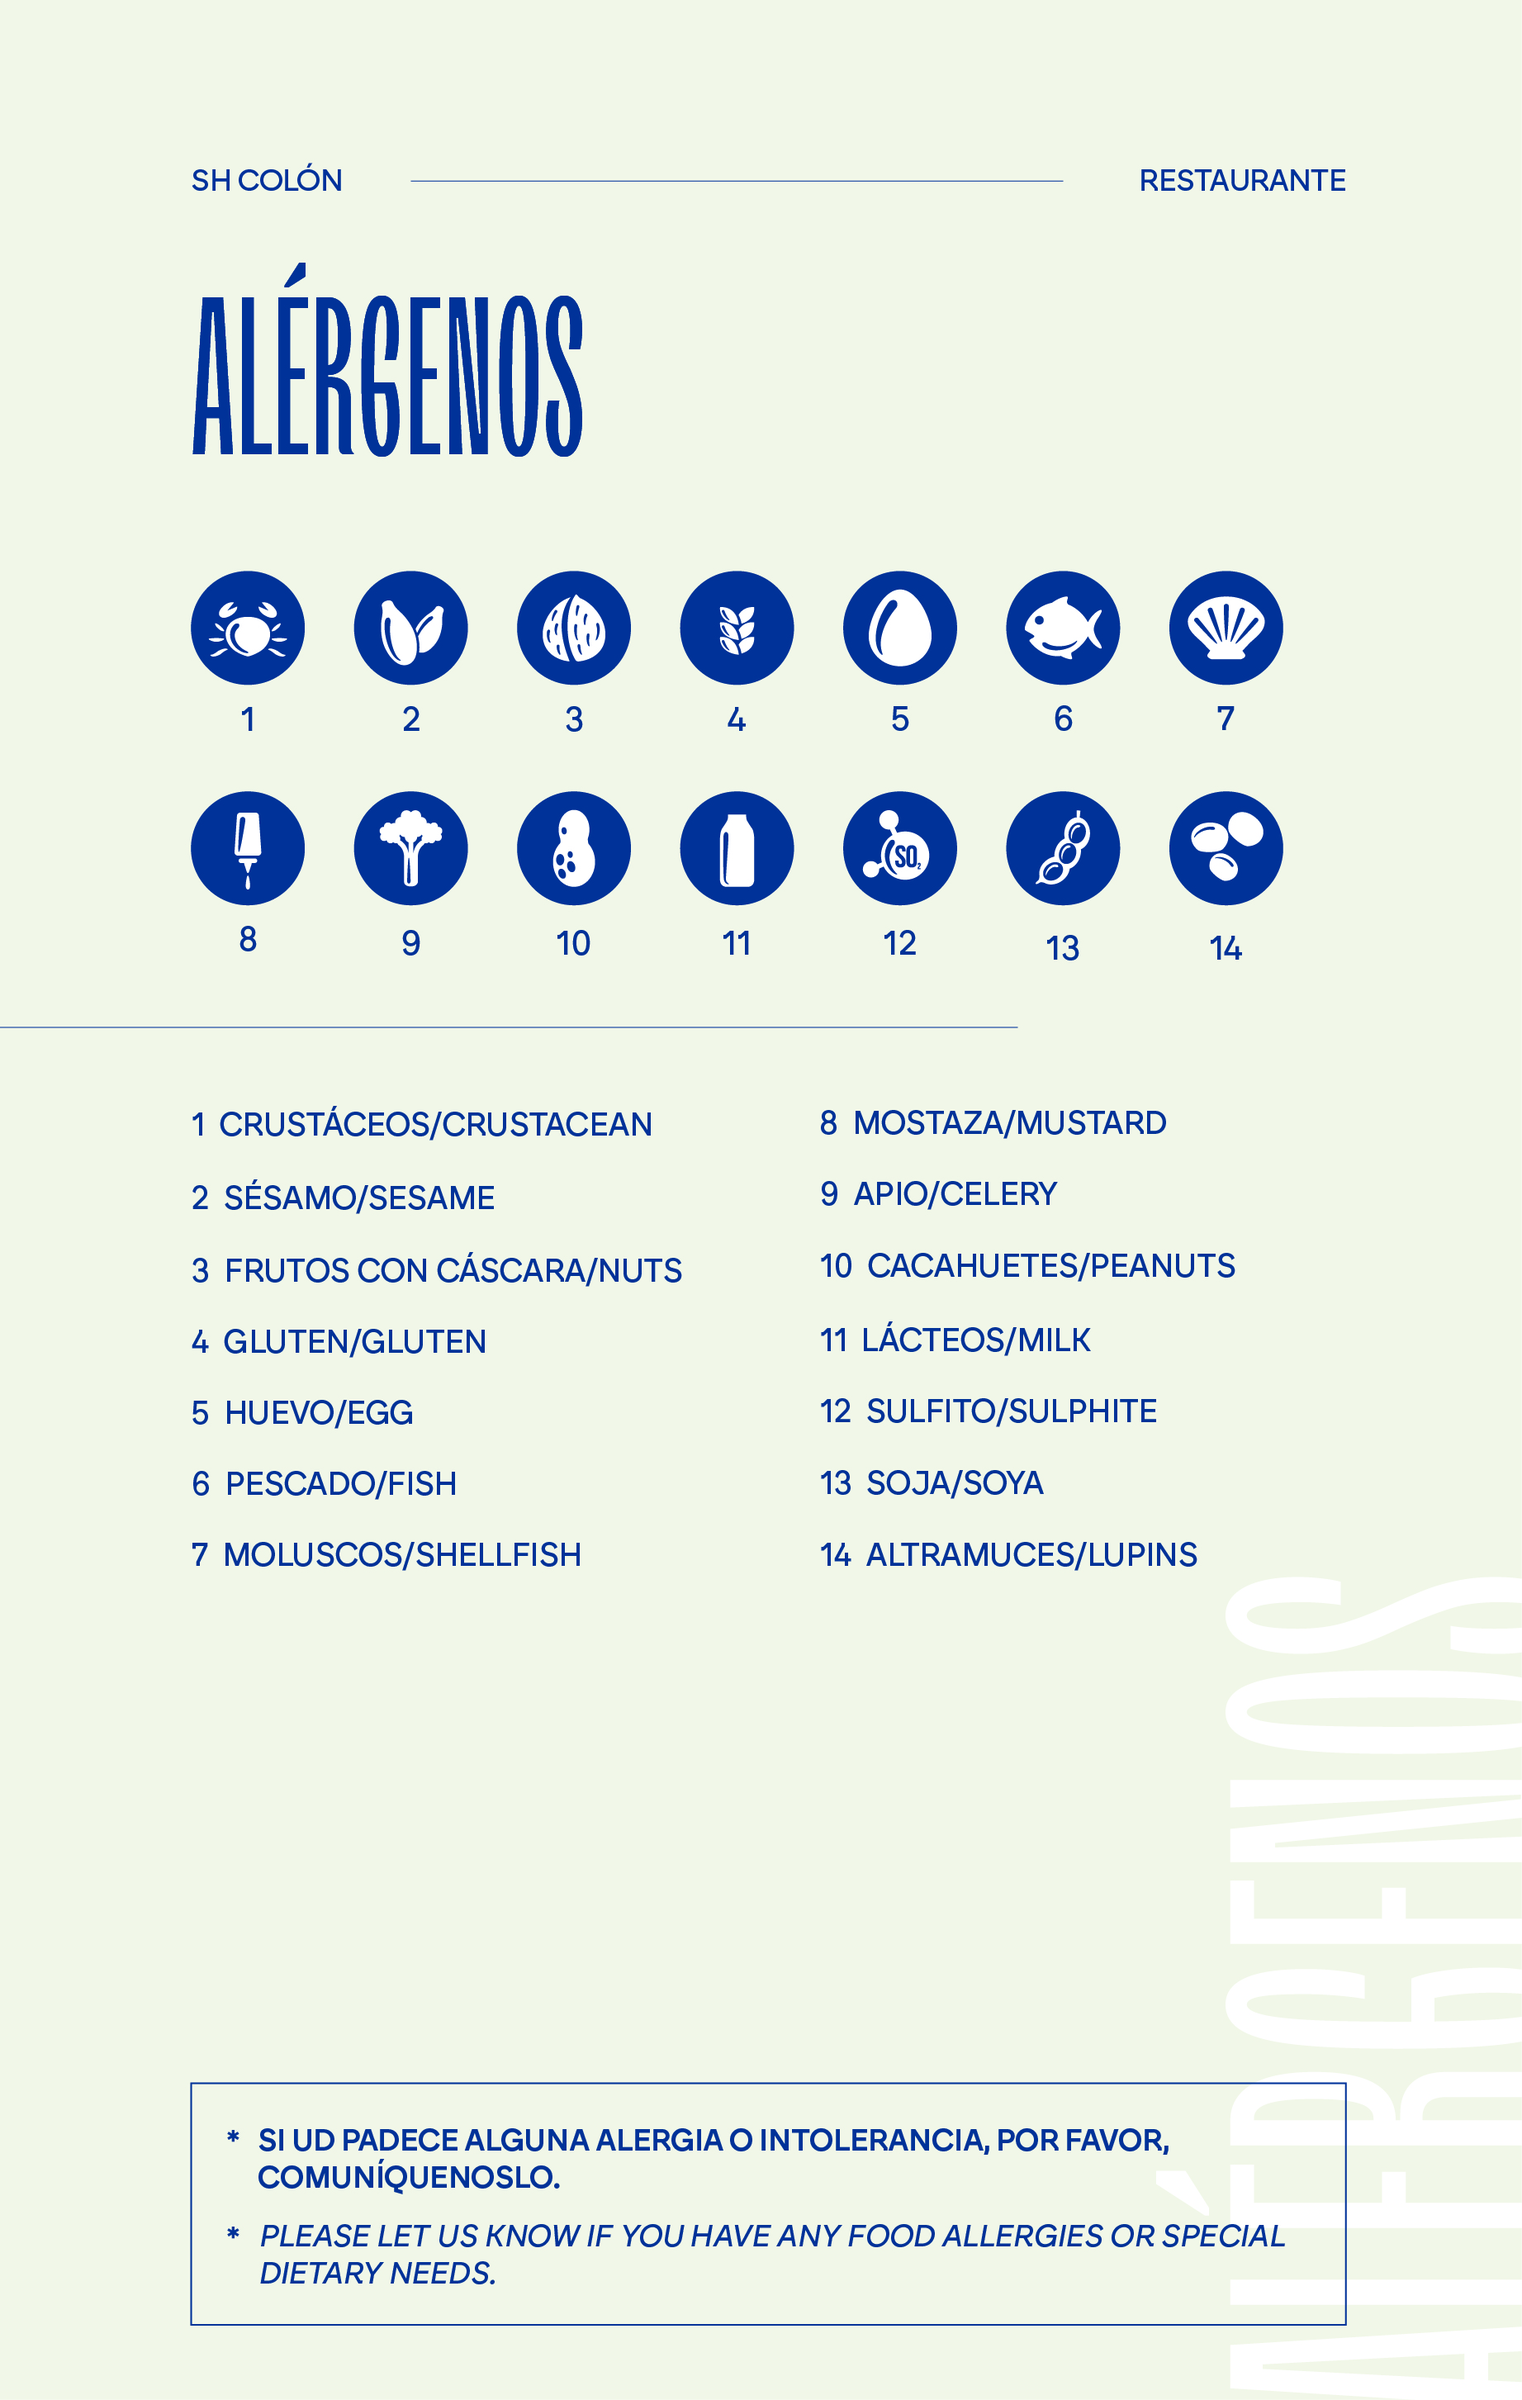
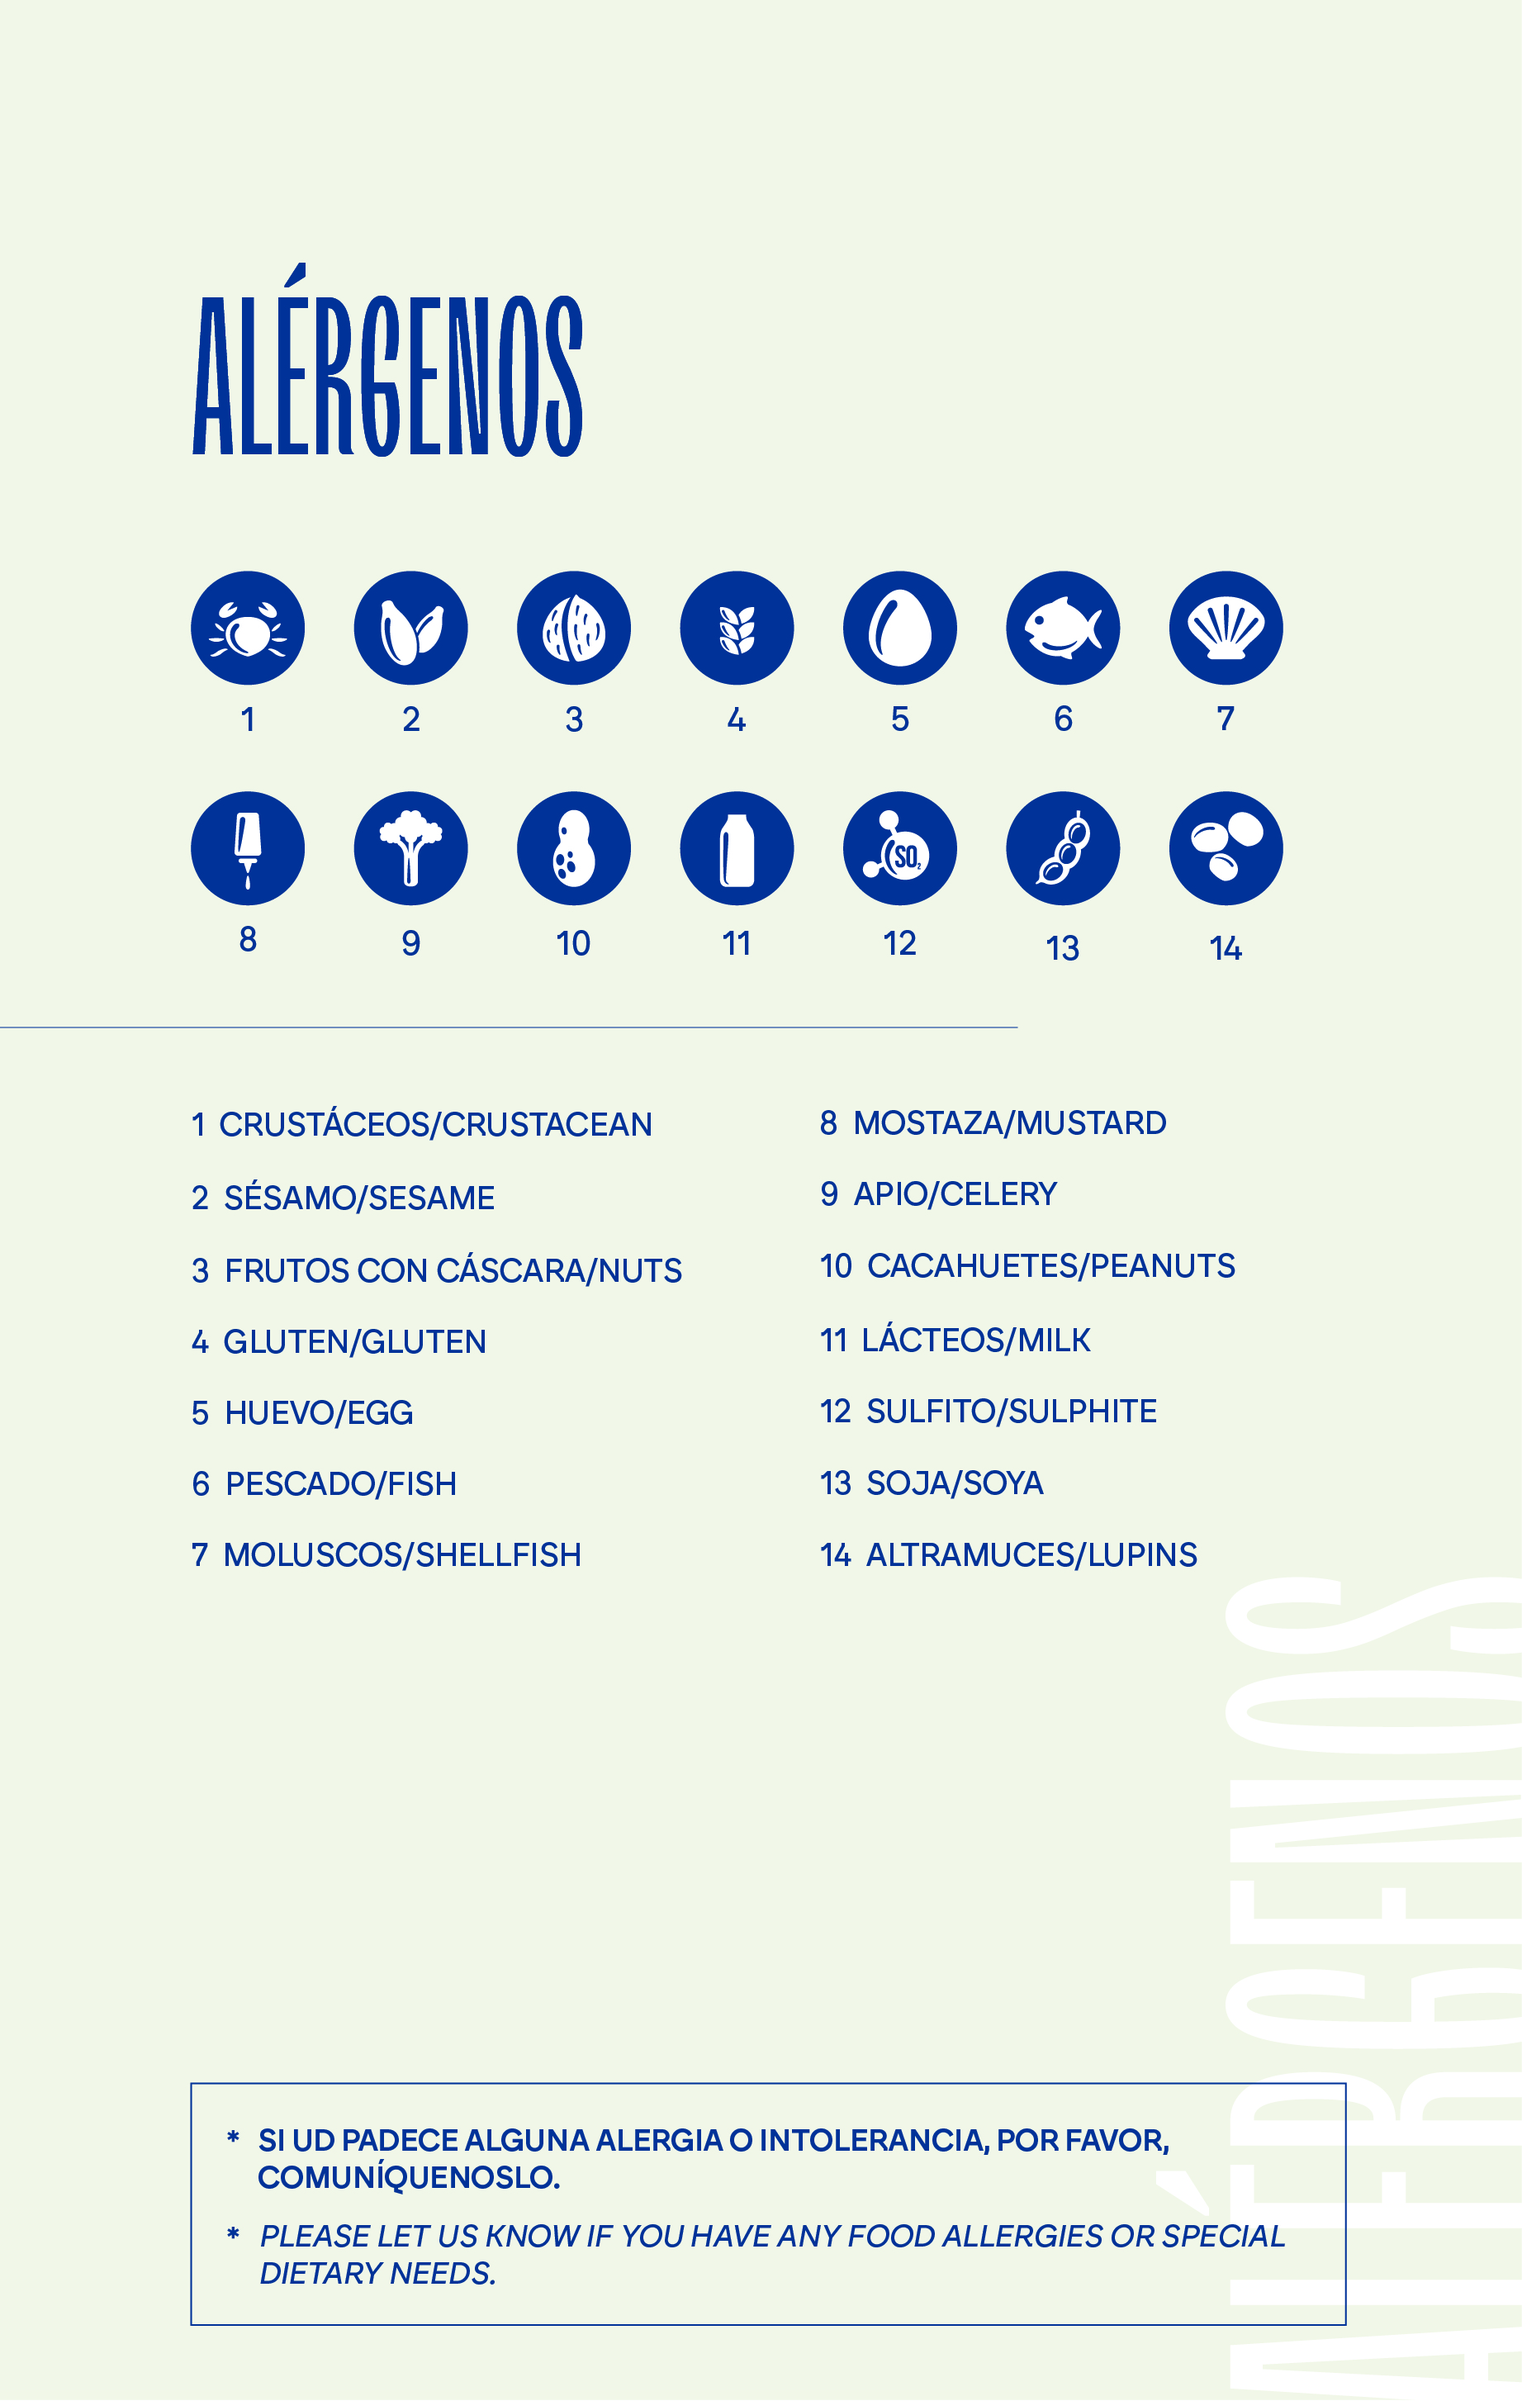
arreglado redondeo de precios y añadidos background para sangrado

diff --git a/app.py b/app.py
@@ -301,7 +301,12 @@ def draw_bg_on_canvas(c, bg_name, w, h, bleed):
             break
             
     if path_found:
-        c.drawImage(path_found, 0, 0, width=w, height=h, preserveAspectRatio=False)
+        if bleed:
+            c.drawImage(path_found, 0, 0, width=w, height=h, preserveAspectRatio=False)
+        else:
+            img_w = w + (2 * BLEED)
+            img_h = h + (2 * BLEED)
+            c.drawImage(path_found, -BLEED, -BLEED, width=img_w, height=img_h, preserveAspectRatio=False)
 
 def generate_pdf_reportlab(df, use_bleed, hotel_name="", is_drinks=False):
     buffer = BytesIO()
@@ -438,16 +443,23 @@ def generate_pdf_reportlab(df, use_bleed, hotel_name="", is_drinks=False):
             desc_es = str(row['DESC_ES']) if pd.notna(row['DESC_ES']) else ""
             desc_en = str(row.get('DESC_EN', '')).lower() if pd.notna(row.get('DESC_EN', '')) else ""
             
+            def fmt_price(p_val):
+                if pd.isna(p_val) or str(p_val).strip() == "" or str(p_val) == "nan": return ""
+                try:
+                    f = float(p_val)
+                    if f.is_integer(): return str(int(f))
+                    s = f"{f:.2f}".rstrip('0').rstrip('.')
+                    return s.replace('.', ',')
+                except:
+                    return str(p_val)
+
             price_str_1 = ""
             price_str_2 = ""
             if is_drinks:
-                 p_bot = str(row.get('PRECIO_BOTELLA',''))
-                 p_copa = str(row.get('PRECIO_COPA',''))
-                 if p_bot and p_bot != 'nan': price_str_1 = p_bot
-                 if p_copa and p_copa != 'nan': price_str_2 = p_copa
+                 price_str_1 = fmt_price(row.get('PRECIO_BOTELLA'))
+                 price_str_2 = fmt_price(row.get('PRECIO_COPA'))
             else:
-                 p = str(row.get('PRECIO',''))
-                 if p and p != 'nan': price_str_1 = p
+                 price_str_1 = fmt_price(row.get('PRECIO'))
             
             allergens = str(row.get('ALERGENOS', '')) if pd.notna(row.get('ALERGENOS', '')) else ""
             if allergens == "nan": allergens = ""
@@ -547,7 +559,40 @@ def generate_pdf_reportlab(df, use_bleed, hotel_name="", is_drinks=False):
     # --- 3. ALERGENOS JPG ---
     alergenos_path = os.path.join("assets/static", "alergenos.jpg")
     if os.path.exists(alergenos_path):
-        draw_page_image(c, alergenos_path, page_width, page_height, use_bleed)
+        draw_page_image(c, alergenos_path, page_width, page_height, use_bleed, auto_show=False)
+        
+        # Añadir cabecera (Hotel - RAYA - Restaurante) a la página de alérgenos
+        y_header = page_height - origin_y - (11 * MM)
+        x_left_cut = origin_x
+        x_right_cut = origin_x + PAGE_WIDTH
+        x_header_left = x_left_cut + (17 * MM)
+        x_header_right = x_right_cut - (17 * MM)
+        
+        c.setFillColor(HEADER_COLOR)
+        hotel_str = display_name.upper() if display_name else ""
+        if hotel_str:
+            draw_text_with_tracking(c, x_header_left, y_header, hotel_str, FONT_MEDIUM, 8.8, tracking=-30, align='left')
+            
+        hotel_raw_width = c.stringWidth(hotel_str, FONT_MEDIUM, 8.8) if hotel_str else 0
+        char_space = (-30 / 1000.0) * 8.8
+        hotel_width = hotel_raw_width + (len(hotel_str) - 1) * char_space if len(hotel_str) > 1 else hotel_raw_width
+        
+        rest_str = "RESTAURANTE"
+        draw_text_with_tracking(c, x_header_right, y_header, rest_str, FONT_MEDIUM, 8.8, tracking=-30, align='right')
+        rest_raw_width = c.stringWidth(rest_str, FONT_MEDIUM, 8.8)
+        rest_width = rest_raw_width + (len(rest_str) - 1) * char_space if len(rest_str) > 1 else rest_raw_width
+        
+        gap = 4 * MM
+        line_start = x_header_left + hotel_width + gap
+        line_end = x_header_right - rest_width - gap
+        
+        if line_end > line_start:
+            c.setStrokeColor(HEADER_COLOR)
+            c.setLineWidth(0.2)
+            line_y = y_header + (8.8 * 0.3)
+            c.line(line_start, line_y, line_end, line_y)
+            
+        c.showPage()
 
     c.save()
     buffer.seek(0)
